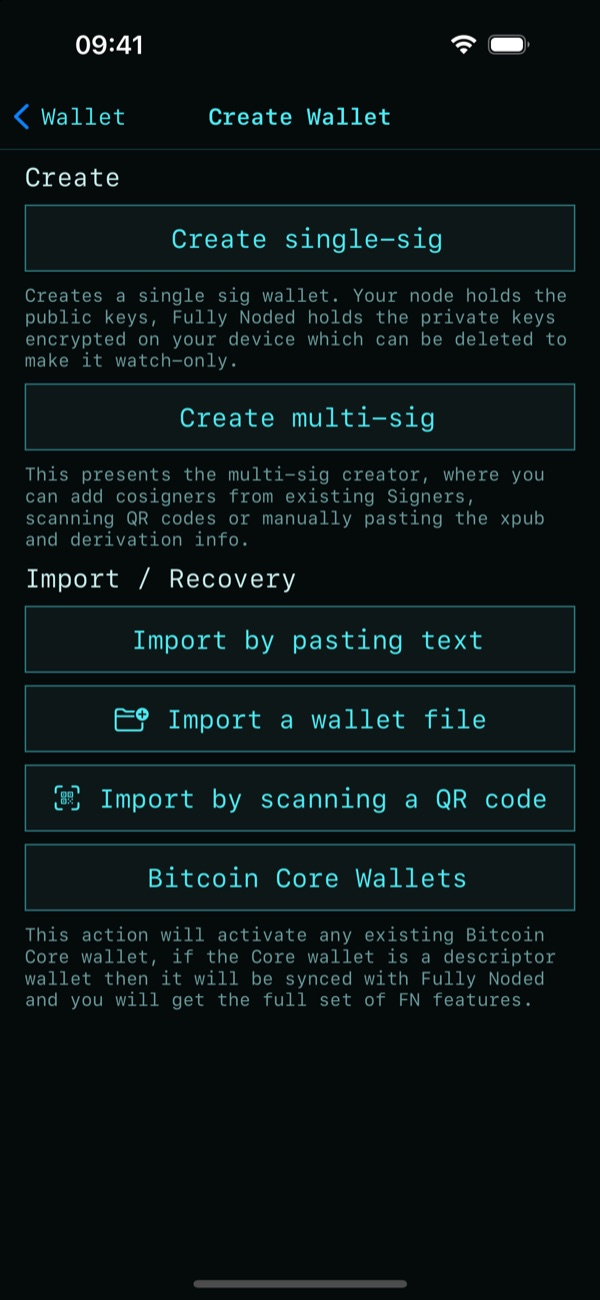
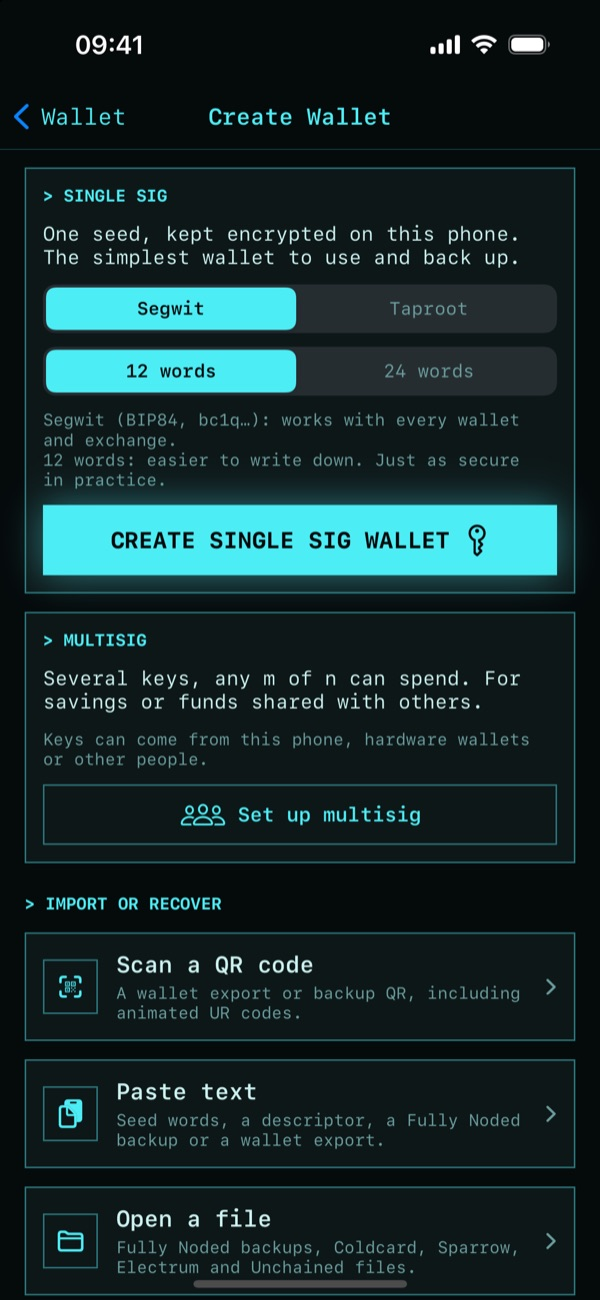
docs: docs

Changed region(s): [[0.03, 0.1231, 0.96, 1.0], [0.72, 0.0, 0.93, 0.0615], [0.93, 0.1231, 0.96, 0.1538]]

diff --git a/Docs/Wallets/Creating-Wallets.md b/Docs/Wallets/Creating-Wallets.md
@@ -13,8 +13,10 @@ Open the **wallet tab** (₿) and tap **+**:
 
 ## Single-sig
 
-1. **Create single-sig**, then pick **Segwit (BIP84)** or **Taproot (BIP86)**.
-2. Fully Noded makes 12 seed words and creates the wallet on your node.
+1. In the **Single sig** card pick **Segwit** (works everywhere) or **Taproot** (cheaper, more
+   private spends), and **12** or **24 words**.
+2. Tap **Create single sig wallet**. Fully Noded makes the seed words and creates the wallet on
+   your node.
 3. **Write the words down** on paper, then tap **I saved them**. They are the only way to recover
    your bitcoin. See [Backups](./Backup-Wallets.md).
 
@@ -27,7 +29,7 @@ control.
 
 ## Multi-sig
 
-**Create multi-sig** opens the multisig creator:
+**Set up multisig** opens the multisig creator:
 
 <img src="../Images/app-multisig.jpg" alt="Multisig creator" width="300"/>
 
@@ -53,10 +55,10 @@ control.
 
 | Option | For |
 |---|---|
-| **Import by pasting text** | Seed words, a descriptor, an xpub, or a Fully Noded backup |
-| **Import a wallet file** | Coldcard (single and multisig), Electrum multisig, Unchained and Fully Noded backup files |
-| **Import by scanning a QR code** | A wallet export QR (UR or JSON), e.g. from Specter or another Fully Noded |
-| **Bitcoin Core Wallets** | Use a wallet that already exists on your node |
+| **Scan a QR code** | A wallet export or backup QR (UR or JSON), e.g. from Specter or another Fully Noded |
+| **Paste text** | Seed words, a descriptor, a Fully Noded backup or a wallet export |
+| **Open a file** | Fully Noded backups, Coldcard (single and multisig), Sparrow, Electrum multisig and Unchained files |
+| **Bitcoin Core wallets** | Use a wallet that already exists on your node |
 
 Importing seed words also adds them as a signer, so the wallet can spend. Importing public
 keys only gives a watch-only wallet: sign elsewhere, or add the seed as a signer later.

diff --git a/Docs/Wallets/Recovery.md b/Docs/Wallets/Recovery.md
@@ -1,15 +1,15 @@
 # Recover a wallet
 
-Wallet tab → **+** → **Import by pasting text** (copy what you want to recover first). Fully Noded
+Wallet tab → **+** → **Paste text** (copy what you want to recover first). Fully Noded
 recognises:
 
 | Pasted | Result |
 |---|---|
 | **BIP39 seed words** | Choose **Segwit** or **Taproot** single-sig. Check the first addresses it shows, then tap **Create Wallet**. The words are also saved as a signer, so the wallet can spend. |
 | **A backup file's text** | Every descriptor in the backup is imported, including timelocks. |
-| **A descriptor or xpub** | A watch-only wallet. Add the seed as a [signer](./Signers.md) to spend. |
+| **A descriptor** | A watch-only wallet (a bare xpub isn't enough: paste its descriptor). Add the seed as a [signer](./Signers.md) to spend. |
 
-Or use **Import a wallet file** / **Import by scanning a QR code** with a backup file or a wallet
+Or use **Open a file** / **Scan a QR code** with a backup file or a wallet
 export QR.
 
 ## What happens on your node

diff --git a/Docs/Wallets/Backup-Wallets.md b/Docs/Wallets/Backup-Wallets.md
@@ -17,8 +17,7 @@ Open the wallet tab → ⓘ:
   wallet into Fully Noded or another wallet. **Format** switches the encoding, **Enlarge** shows it
   full screen.
 - **Backup file**: all of the wallet's descriptors as read from your node, including any timelocks.
-  This is the most complete backup. Recover it with **+ → Import by pasting text** or **Import a
-  wallet file**.
+  This is the most complete backup. Recover it with **+ → Paste text** or **Open a file**.
 
 Neither contains private keys, but both reveal your whole balance and history to anyone who sees
 them. Keep them private.

diff --git a/Docs/Wallets/Deleting-Wallets.md b/Docs/Wallets/Deleting-Wallets.md
@@ -4,7 +4,7 @@ Wallet tab → ⓘ → 🗑 (top right) → **Remove**.
 
 This only makes Fully Noded forget the wallet. It is **not** deleted:
 
-- **Your node keeps it.** Re-add it any time with **+ → Bitcoin Core Wallets**, or by recovering
+- **Your node keeps it.** Re-add it any time with **+ → Bitcoin Core wallets**, or by recovering
   from the seed or a backup (Fully Noded finds the existing node wallet).
 - **The signer stays** in the Signers tab. Delete the seed words there separately, only if you
   have them backed up.

diff --git a/Docs/Q-and-A.md b/Docs/Q-and-A.md
@@ -34,7 +34,7 @@ Yes, Segwit or Taproot, with cosigners from this phone, other devices or other p
 [Create a wallet](./Wallets/Creating-Wallets.md#multi-sig).
 
 **Can I use my node's existing wallets?**
-Yes: wallet tab → **+** → **Bitcoin Core Wallets**.
+Yes: wallet tab → **+** → **Bitcoin Core wallets**.
 
 **Why is my balance zero after recovering?**
 Your node is rescanning the blockchain. Wait, then pull down to refresh.

diff --git a/Docs/Wallets/Wallet-Export-Spec.md b/Docs/Wallets/Wallet-Export-Spec.md
@@ -72,4 +72,4 @@ Client side software needs to deduce the how the change keys will be derived fro
 - [Specter Desktop](https://github.com/cryptoadvance/specter-desktop)
 
 In Fully Noded: wallet tab → ⓘ → **Wallet export** shows this QR. Import one with wallet tab →
-**+** → **Import by scanning a QR code**.
+**+** → **Scan a QR code**.
